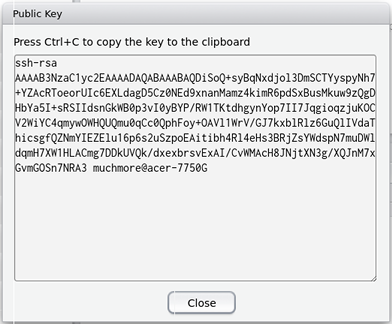
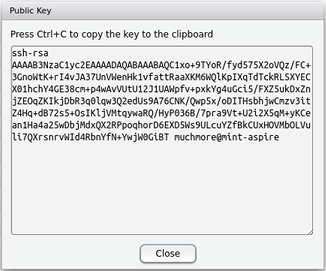
README updated with illustrated, step-by-step directions.

Changed region(s): [[0.0307, 0.1771, 1.0, 0.9742], [0.0307, 0.0295, 0.9816, 0.1476]]

diff --git a/README.md b/README.md
@@ -1,38 +1,68 @@
 # README #
 
-This repository contains an R package template supporting the use of the Rcpp and/or RcppArmadillo packages. The following walkthrough assumes you have [RStudio](https://www.rstudio.com/) installed. To make full use of RStudio, the [devtools](https://cran.r-project.org/web/packages/devtools/index.html) R package should also be installed. The package also includes `C++` code, and a [suitable compiler](https://cran.r-project.org/doc/manuals/r-release/R-admin.html) must be available to build the package from source.
+This repository contains an R package template supporting the use of the Rcpp and/or RcppArmadillo packages. The package template has been configured as an RStudio project, and the following instructions assume you have [RStudio](https://www.rstudio.com/) installed. To make full use of RStudio, the [devtools](https://cran.r-project.org/web/packages/devtools/index.html) R package should also be installed. The package template includes both `R` and `C++` code, so a [suitable](https://cran.r-project.org/doc/manuals/r-release/R-admin.html) `C++` compiler must be available to build the package from source.
 
-## RStudio, Git, and SSH Keys
+1. [Configuring RStudio for Git and SSH](#configuring-rstudio-for-git-and-ssh)
+2. [Registering your SSH public key with bitbucket](#registering-your-ssh-public-key-with-bitbucket)
+3. [Cloning the project repository with RStudio](#cloning-the-project-repository-with-rstudio)
+4. [Building and running the package template project with RStudio](#building-and-running-the-package-template-project-with-rstudio)
 
-The R package source code is stored in a git repository, which is accessible using the ssh (__s__ecure __sh__ell) protocol. Connecting to a remote git repository requires a git client to be installed on your system. To establish if RStudio has recognized your git installation, click on the `Tools` menu and select `Global Options...` (this dialog may load slowly the first time it is opened), then click on `Git/SVN` in the left panel. Also make sure the checkbox `Enable version control interface for RStudio projects` has been selected.
+### Configuring RStudio for Git and SSH
+
+The package source code is stored in a Git repository, which is accessible using the SSH (__S__ecure __SH__ell) protocol. Connecting to a remote Git repository requires a Git client be installed on your system. To establish if RStudio has recognized your Git installation, click on the __Tools__ menu and select __Global Options...__ (this dialog may load slowly the first time it is opened). Click on __Git/SVN__ in the left panel, and make sure the checkbox __Enable version control interface for RStudio projects__ has been selected (RStudio may need to be restarted after turning this feature on or off).
 
 ![RStudio global options](./readme/SSHKey.png)
 
-If your `Git executable:` is shown as `(Not Found)`, you probably need to install a git client; for instructions click [here](https://www.atlassian.com/git/tutorials/install-git) (or just google it).
+If the __Git executable__ is __(Not Found)__, you probably need to install a Git client; for instructions click [here](https://www.atlassian.com/git/tutorials/install-git) (or just google it).
 
-Once RStudio has recognized your git installation, check to see if it has found a `SSH RSA Key`. 
+Once RStudio has recognized your Git installation, check to see if it has found a __SSH RSA Key:__ 
 
-1. If a key has not been found, make one by selecting `Create RSA Key...`. Using a passphrase is more secure, albeit less convenient.  
+1. If the __SSH RSA Key__ is __(None)__, make one by clicking the __Create RSA Key...__ button. Using a passphrase is more secure, albeit less convenient.  
 ![Create RSA Key](./readme/CreateRSAKey.png)
 
-2. If a key has been found and it is the one you want to use, nothing needs to be done.
+2. If the __SSH RSA Key__ is the one you want to use, nothing needs to be done.
     
-3. If a key has been found and it is not the one you want to use, complain to RStudio, because as far as I can tell it cannot be changed by the user. In Linux a workaround is to set the environment variable `GIT_SSH_COMMAND='ssh -i /path/to/alternate/key/id_rsa'` before running RStudio, overriding the default key selection.
+3. If the __SSH RSA Key__ is not the one you want to use, complain to RStudio, because as far as I can tell it cannot be changed by the user. In Linux a workaround is to set the environment variable `GIT_SSH_COMMAND='ssh -i /path/to/alternate/key/id_rsa'` before running RStudio, overriding the default key selection.
 
-The RSA public key will be used to identify and authenticate you when connecting to the git host via ssh. In cases 1 and 2 above, you can access this file by clicking `View public key`. This key must be registered with the git host, so you may want to copy and paste it into a temporary text file.
+The RSA public key will be used to identify and authenticate you when connecting to the Git host via SSH. In cases 1 and 2 above, you can access this file by clicking __View public key__. This key must be registered with the Git host, so you may want to copy and paste it into a temporary text file.
 
 ![RSA public key](./readme/PublicKey.png)
 
 In case 3 above, it is assumed that anyone using something other than the default knows how to find the appropriate public key.
 
-## Registering your public key with bitbucket
+### Registering your SSH public key with bitbucket
 
-To register your public key, login into bitbucket and click on your avatar, which is located in the top right corner and defaults to the image ![Avatar](./readme/BitbucketAvatar.png). From there, select `Bitbucket settings`, and then click on `SSH Keys` in the left panel.
+To register your public key, login into bitbucket and click on your avatar, which is located in the top right corner and defaults to the image ![Avatar](./readme/BitbucketAvatar.png). From there, select __Bitbucket settings__, and then click on __SSH Keys__ in the left panel.
 
-Next, click on `Add key`, and paste the public key from before into the text box. It is recommended to label your SSH keys, particularly when using more than one. Press the `Add key` button when finished.
+Next, click on __Add key__, and paste the public key from before into the text box. It is recommended to label your SSH keys, particularly when using more than one. Press the __Add key__ button when finished.
 
 ![Bitbucket add key](./readme/BitbucketAddKey.png)
 
-## Cloning the project repository into RStudio
+### Cloning the project repository with RStudio
 
-With RStudio configured for git, and your ssh key registered with the git host, you're ready to clone the package template repository. From the `File` menu select `New Project...`, then click on `Version Control` followed by `Git`. Enter `git@bitbucket.org:biostatpo1/rpackagetemplate.git` for the `Repository URL`. To change the target local directory for the cloned repository, set `Create project as subdirectory of:` to the desired file system path. Do not change the default `Project directory name:`. If `Open in new session` is checked, RStudio will automatically switch to the new project after completing the download. After setting the appropriate option values, click `Create Project` to clone the repository using git.
+With RStudio configured for Git, and your SSH key registered with the Git host, you are ready to clone the package template project repository. From the __File__ menu select __New Project...__, then click on __Version Control__ followed by __Git__. Enter *git@bitbucket.org:biostatpo1/rpackagetemplate.git* for the __Repository URL__, and leave the __Project directory name__ empty. When the repository is cloned, a new directory named *rpackagetemplate* will be created. 
+
+![Cloning a repository with Git and RStudio](./readme/CloneGitRepo.png)
+
+The field __Create project as subdirectory of__ indicates where the *rpackagetemplate* directory will be created. To specify an alternate location, click __Browse__ and navigate to the desired file system path. If __Open in new session__ is checked, once the clone operation is complete RStudio will automatically open the project. After setting the appropriate option values, click the __Create Project__ button to clone the repository using Git.
+
+### Building and running the package template project with RStudio
+
+To build and run the project, it must be open in RStudio (this should already be the case if __Open in new session__ was selected). If the project is not open, click on __File__ and select __Open Project...__, then navigate to the newly created *rpackagetemplate* folder and open the *rpackagetemplate.Rproj* file (the *.Rproj* extension denotes a configuration file for an RStudio project). When the project is open, one of the panes in the RStudio window should have a series of tabs including __Environemnt__, __History__, __Build__, and __Git__ (the RStudio interface can be customized by selecting __Pane Layout__ from the left panel of the __Global Options__ dialog). Click on the tab labeled __Build__.
+
+![Cloning a repository with Git and RStudio](./readme/BuildTab.png)
+
+Clicking the __Build & Reload__ button causes R to compile and load the contents of the project directory. Because the project contains `C++` code, you should see some lines of compiler output. The package is then installed, and as with any R package, if this completes successfully the last few lines of output will look like:
+
+    ** testing if installed package can be loaded
+    * DONE (rpackagetemplate)
+
+Assuming the package has been built successfully, it is automatically (re)loaded by calling `library(rpackagetemplate)`. To verify the package installation, you can run the included "hello world" function `rcpparma_hello_world`, which should return a 3x3 matrix that has seven on the diagonal and zero elsewhere.
+
+    >rcpparma_hello_world()
+         [,1] [,2] [,3]
+    [1,]    7    0    0
+    [2,]    0    7    0
+    [3,]    0    0    7
+
+
